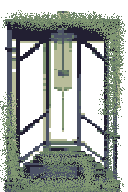
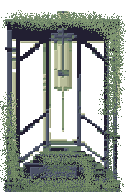
Needle Point shaded: lit frame edges, the syringe as lit glass, moss darkening toward the ground (art from index32_art 2782dac)

diff --git a/CHANGELOG.md b/CHANGELOG.md
@@ -6,7 +6,20 @@ History before 2026-10-04 is in `git log` and `docs/game-loop.md`.
 
 ---
 
-## 2026-10-22 — `new-shit` — Khalid, the enemies and Kroj get a light shading pass; picked colours glow like the default and black is really black
+## 2026-10-22 — `new-shit` — Khalid, the enemies, Kroj and Needle Point get a light shading pass; picked colours glow like the default and black is really black
+
+### Needle Point shaded
+
+- **What:** the Needle Point booth (`assets/things/needle_point.png`) is shaded: the steel frame and cream rails get
+  lit top/left and shadowed bottom/right edges, the syringe reads as lit glass (a bright streak down its left, a
+  darker falloff on its right), upward-facing moss catches a little light and the overgrowth darkens toward the ground.
+- **How:** in the art repo (`index32_art` 2782dac) the master gained a `Shading` layer on top holding only the changed
+  pixels (the owner's Thing and moss layers untouched); the hand export of the flattened image was copied here. The
+  shades are the art's own colours shifted in OKLab lightness; the moss pass reads the moss layer only, so the
+  green-painted machine parts aren't dotted. README § Needle Point mentions the layer.
+- **Could affect:** only the booth's look — no shader or code reads its colours.
+- **Tested:** the export equals the preview the owner picked (variant B) pixel for pixel; `--import` and a headless
+  arena boot clean. **Not verified:** a windowed look at it in the arena.
 
 ### Colour picker: a pick is the colour shown (pure black included), and it glows like the default
 

diff --git a/README.md b/README.md
@@ -995,8 +995,8 @@ rank I's Lira price — **priced by worth**: Jump Height / Run Speed 15, Extra J
 - **Dash charges:** Khalid holds `1 + DashBonus` dashes; each spends one, and a spent one refills after the dash
   cooldown, one at a time — so with one charge it plays exactly like the old single cooldown.
 - **The stall** is `scenes/things/needle_point.tscn` (script `NeedlePointStall`, a `Stall`), placed in the layout: a
-  tall booth (`assets/things/needle_point.png`, master `index32_art/art/stages/stage1/needle_point.aseprite`) with a
-  stepped dais. Its collision is scene nodes you can reshape in the editor — `Dais` (two invisible ~37° ramps following
+  tall booth (`assets/things/needle_point.png`, master `index32_art/art/stages/stage1/needle_point.aseprite` — its `Shading` layer, since 2026-10-22, lights the
+  frame's edges, turns the syringe into lit glass and darkens the moss toward the ground) with a stepped dais. Its collision is scene nodes you can reshape in the editor — `Dais` (two invisible ~37° ramps following
   the stairs, since a body can't climb separate steps, and the flat top) and `Roof` (a jump-through platform: one-way,
   on the Platform layer — the script sets both layers from `Combat`; drop through with S / Down); its `Interact` area
   sits on the dais top, so the E prompt only shows up there; its `NeedlePointMenu` (on the shared `StallMenu` frame) lists every shot
